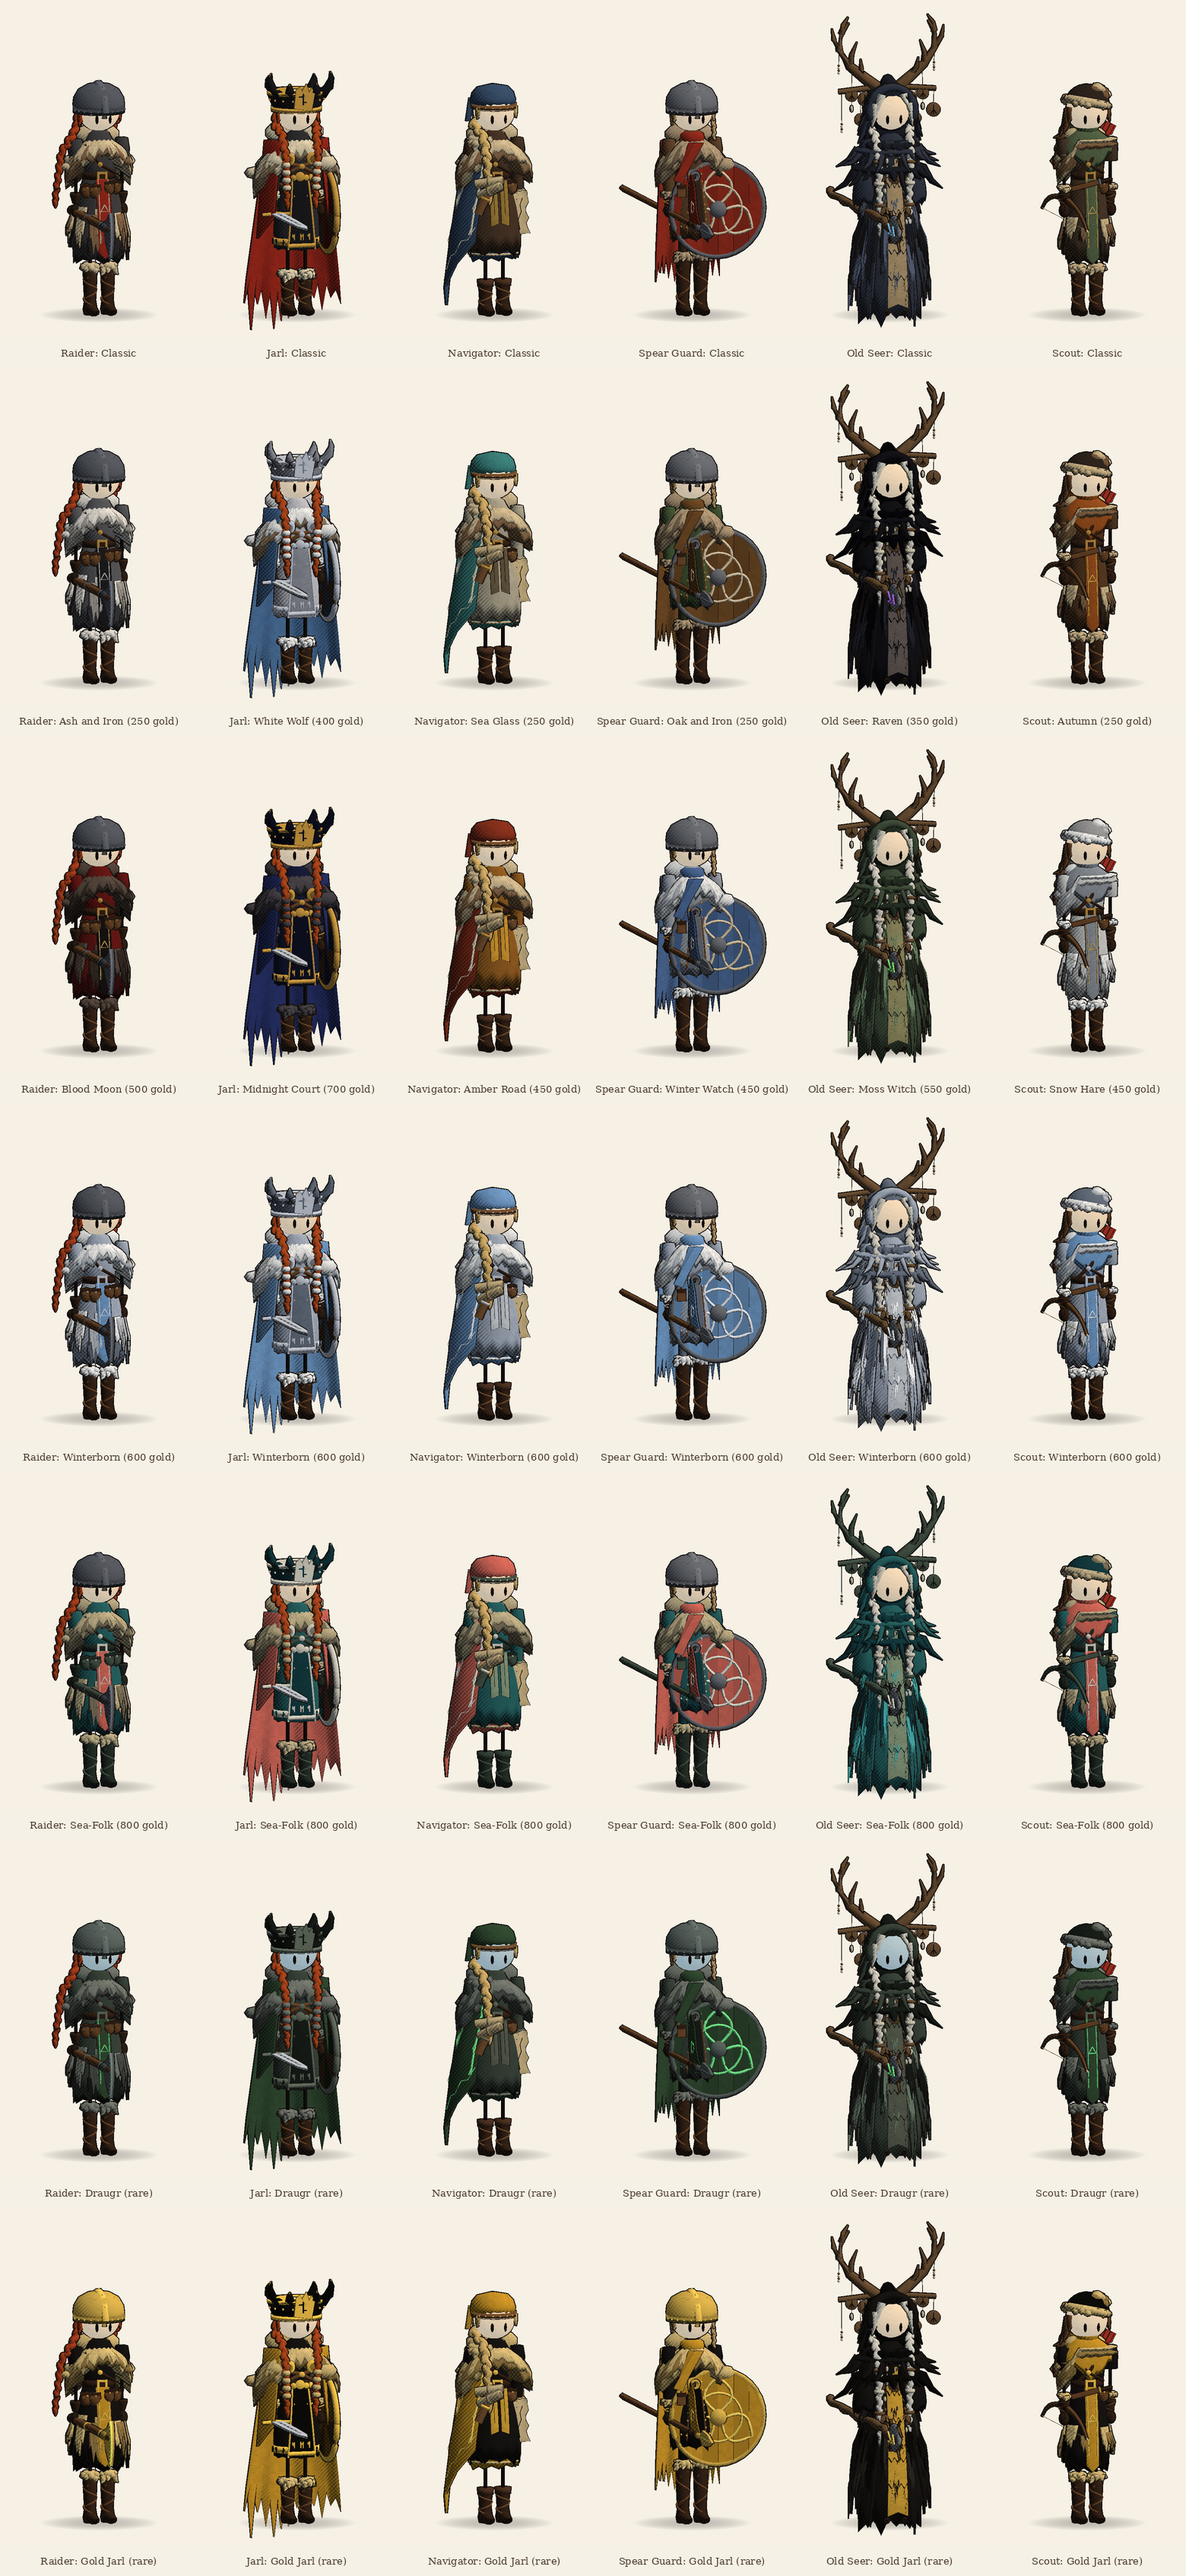
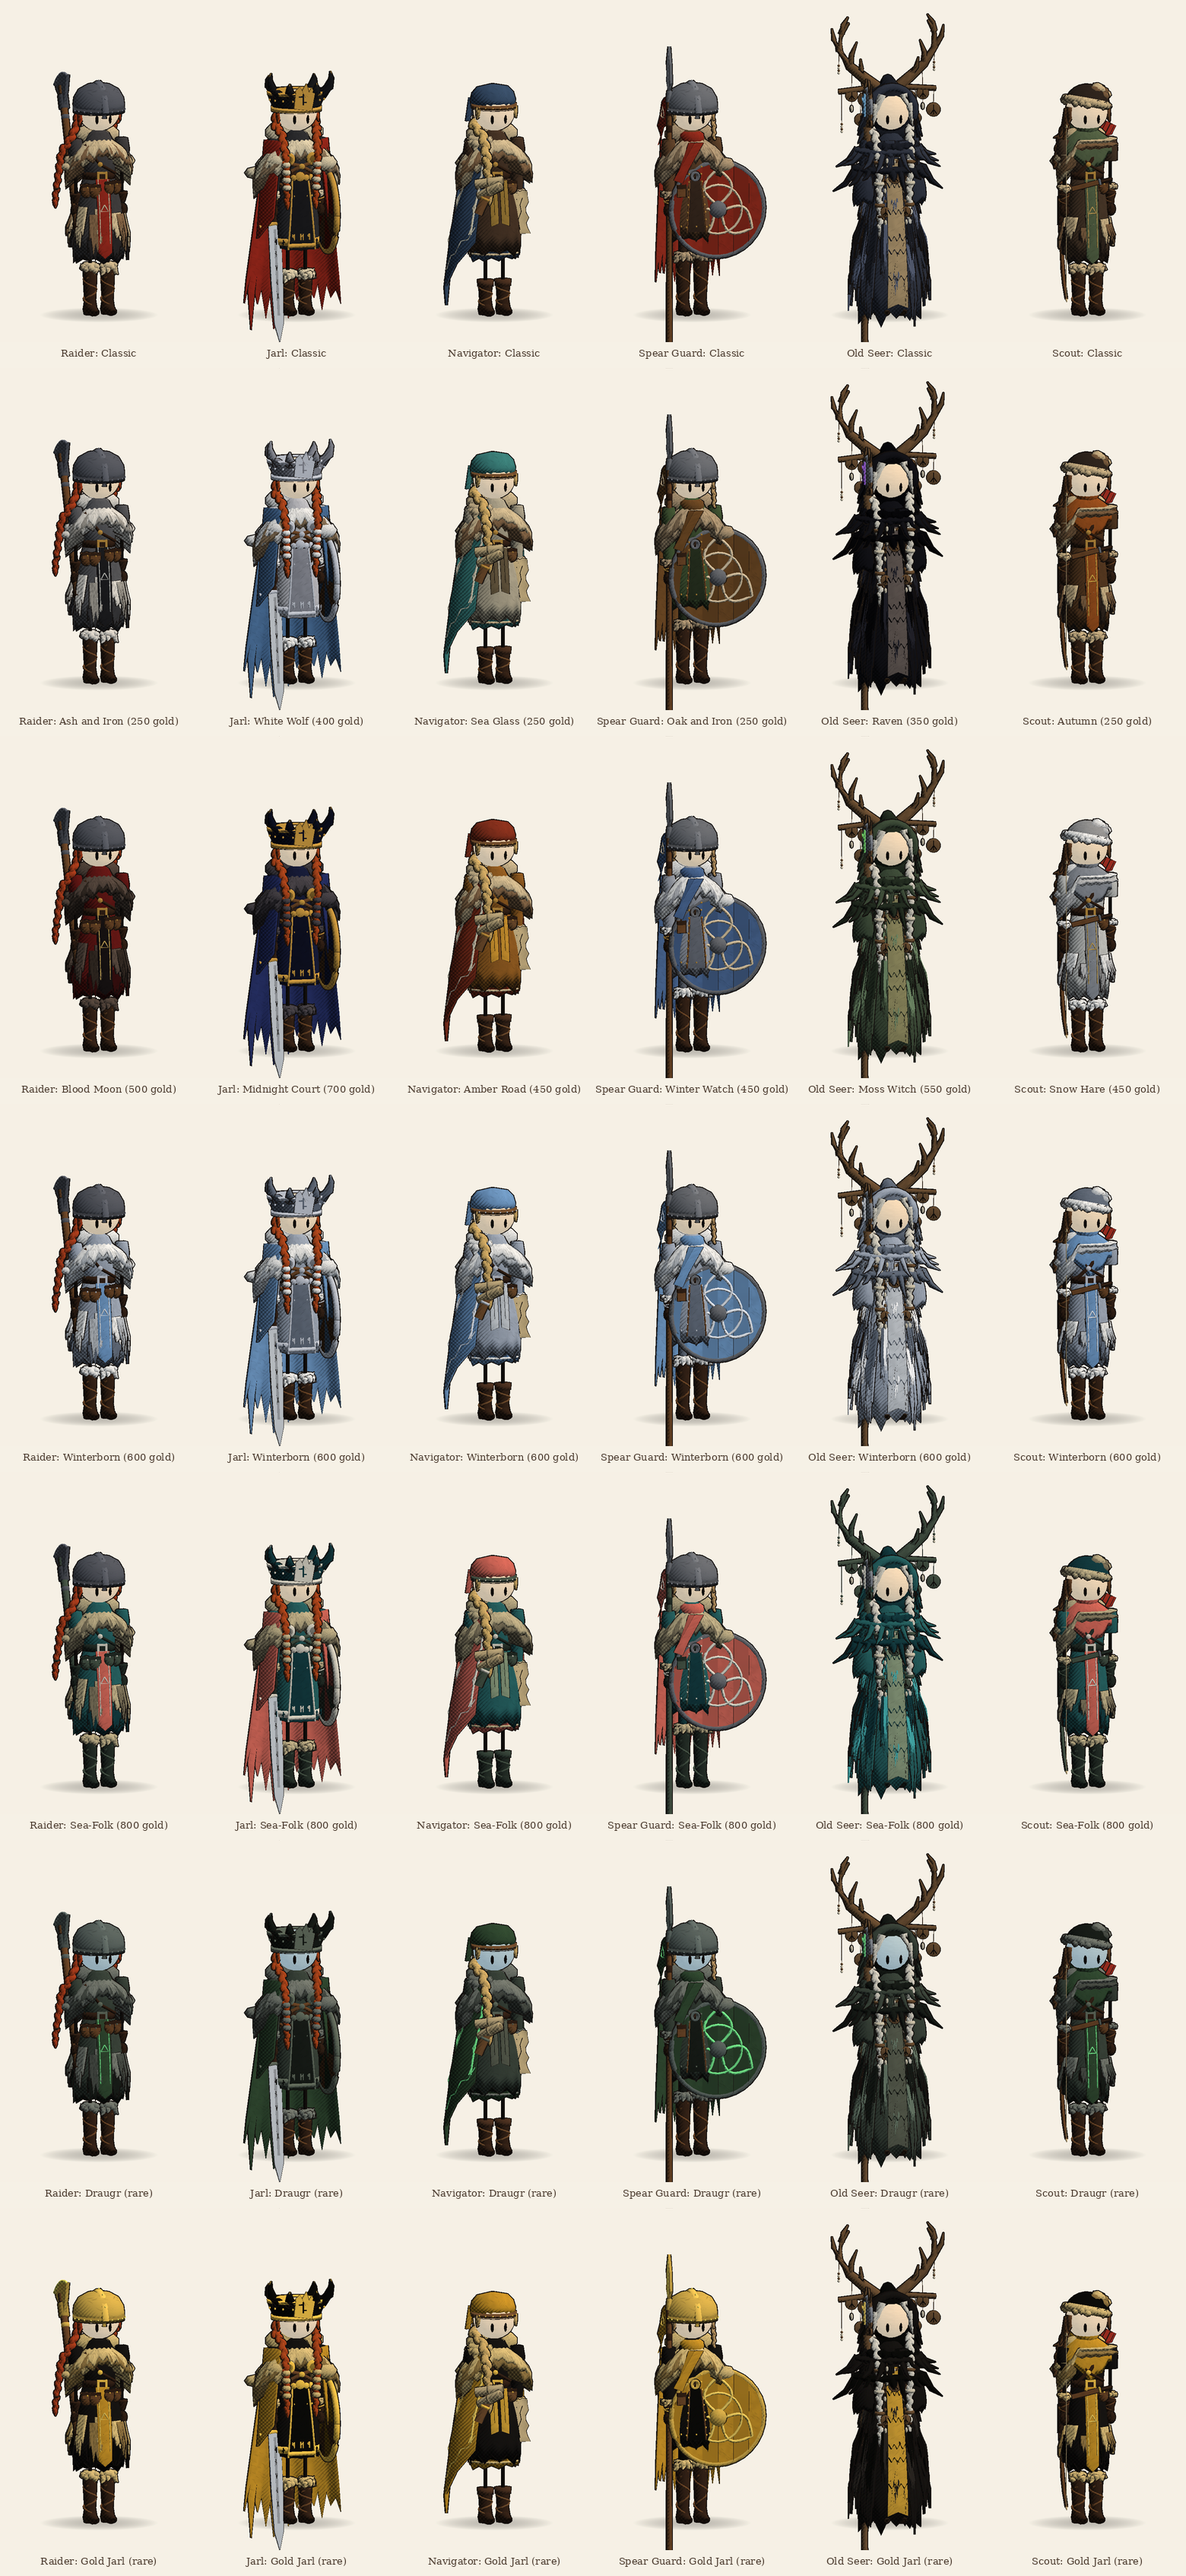
Turnaround sheet; weapons rest upright instead of sticking out like lances
docs/turnaround.png renders every hero from the front, three-quarter, side
and back. It showed that at rest every weapon pointed straight forward from
the fist; joints now carry a rest rotation and each weapon has its own
(Weapons.RestEuler): spears, staves and bows upright, swords point-down,
the axe tipped back. HeroBuilder and the preview apply it; tests check that
nothing is held out like a lance.

Claude-Session: https://claude.ai/code/session_01SCdejJ1UF8RUxAkkFhZXGU

diff --git a/tools/preview/HeroPreview.cs b/tools/preview/HeroPreview.cs
@@ -186,6 +186,7 @@ public static class HeroPreview
         File.WriteAllLines(args[1], labels.ToArray());
         if (args.Length > 4) MotionStrip(args[3], args[4], jarlModel);
         if (args.Length > 6) SkinSheet(args[5], args[6]);
+        if (args.Length > 8) TurnSheet(args[7], args[8]);
         Directory.CreateDirectory(args[2]);
         ExportObj(HeroModel.Build(raider), Path.Combine(args[2], "raider.obj"));
         ExportObj(HeroModel.BuildWeapon(raider), Path.Combine(args[2], "two-hand-axe.obj"));
@@ -243,6 +244,39 @@ public static class HeroPreview
         }
         var labels = new List<string>();
         foreach (var f in frames) labels.Add(f.label);
+        File.WriteAllLines(labelPath, labels.ToArray());
+    }
+
+    /// <summary>Every outfit (rows) from the front, three-quarter, side and back (columns), for docs/turnaround.png.</summary>
+    static void TurnSheet(string rgbaPath, string labelPath)
+    {
+        var outfits = (OutfitId[])Enum.GetValues(typeof(OutfitId));
+        float[] yaws = { 180f, 215f, 270f, 0f };
+        string[] names = { "front", "three-quarter", "side", "back" };
+        const int cellW = 520, cellH = 900;
+        int cols = yaws.Length, rows = outfits.Length, w = cellW * cols, h = cellH * rows;
+        var img = new float[w * h * 3];
+        var labels = new List<string> { "cols=" + cols };
+        for (int r = 0; r < rows; r++)
+        {
+            var row = new float[w * cellH * 3];
+            for (int i = 0; i < w * cellH; i++) { row[i * 3] = Paper.r; row[i * 3 + 1] = Paper.g; row[i * 3 + 2] = Paper.b; }
+            var model = Full(CharacterSpec.Default(outfits[r]));
+            for (int c = 0; c < cols; c++)
+            {
+                Render(row, w, cellH, c * cellW, cellW, cellH, new Shot { model = model, yaw = yaws[c] });
+                labels.Add(Outfits.Get(outfits[r]).title.Replace("The ", "") + ", " + names[c]);
+            }
+            Array.Copy(row, 0, img, r * w * cellH * 3, row.Length);
+        }
+        using (var f = new BinaryWriter(File.Create(rgbaPath)))
+        {
+            f.Write(w); f.Write(h);
+            for (int i = 0; i < w * h; i++)
+            {
+                f.Write((byte)(Mathf.Clamp01(img[i * 3]) * 255)); f.Write((byte)(Mathf.Clamp01(img[i * 3 + 1]) * 255)); f.Write((byte)(Mathf.Clamp01(img[i * 3 + 2]) * 255)); f.Write((byte)255);
+            }
+        }
         File.WriteAllLines(labelPath, labels.ToArray());
     }
 
@@ -313,7 +347,7 @@ public static class HeroPreview
     {
         var j = m.Find(joint);
         Vector3 local = pose.pos.ContainsKey(joint) ? pose.pos[joint] : j.localPosition;
-        Quaternion own = pose.rot.ContainsKey(joint) ? pose.rot[joint] : Quaternion.identity;
+        Quaternion own = pose.rot.ContainsKey(joint) ? pose.rot[joint] : Quaternion.Euler(j.restEuler);
         if (j.parent == null) { pos = local; rot = own; return; }
         Vector3 pp; Quaternion pr;
         World(m, pose, j.parent, out pp, out pr);

diff --git a/OdinsCoin/Assets/Scripts/Characters/HeroModel.cs b/OdinsCoin/Assets/Scripts/Characters/HeroModel.cs
@@ -21,6 +21,8 @@ namespace OdinsCoin
             var outfit = Outfits.Get(spec.outfit);
             var d = new Dresser { model = new VikingModel(), fit = fit, pal = spec.Paint(), seed = 17 + (int)spec.outfit * 31 };
             Joints.Build(d.model, fit);
+            // How the hand holds its weapon at rest (weapons are built pointing forward from the fist).
+            d.model.Find(Joints.Weapon).restEuler = Weapons.RestEuler(spec.weapon);
             BaseBody(d);
             Hair(d, spec.hair);
             outfit.dress(d);
@@ -128,6 +130,23 @@ namespace OdinsCoin
     /// <summary>Weapons are add-ons, not part of the character: built on their own and held in the weapon hand.</summary>
     public static class Weapons
     {
+        /// <summary>
+        /// How each weapon is carried when the arm hangs at rest: long hafts and staves upright, the sword point
+        /// down, the axe tipped back so it leans against the shoulder. (Every weapon is modelled pointing +Z.)
+        /// </summary>
+        public static Vector3 RestEuler(WeaponId id)
+        {
+            switch (id)
+            {
+                case WeaponId.Spear:
+                case WeaponId.Staff:
+                case WeaponId.Bow: return new Vector3(-90f, 0f, 0f);
+                case WeaponId.TwoHandAxe: return new Vector3(-115f, 0f, 0f);
+                case WeaponId.Sword: return new Vector3(80f, 0f, 0f);
+                default: return Vector3.zero;
+            }
+        }
+
         /// <summary>The first <paramref name="count"/> outline points as a 3D polyline in the blade's plane (x offset for the bevel).</summary>
         /// <summary>The axe's cutting edge, t = 0 at the top horn to 1 at the tip of the beard, pushed out by <paramref name="off"/>.</summary>
         static Vector2 Edge(float t, float off)

diff --git a/tools/tests/LogicTests.cs b/tools/tests/LogicTests.cs
@@ -36,6 +36,7 @@ public static class LogicTests
         StickAnimTests();
         ClothWindTests();
         FaceTests();
+        RestTests();
         SkinTests();
         CombatTests();
         Console.WriteLine(passes + " passed, " + failures + " failed");
@@ -816,6 +817,20 @@ public static class LogicTests
         var cape = SwingSpring.For(SwingKind.Cape);
         for (int i = 0; i < 2000; i++) cape.Step(0.016f, new Vector3(3f, 0f, -6f), Vector3.zero, ClothWind.Flutter(10f, i * 0.016f, 0f), ClothWind.Flutter(10f, i * 0.016f, 1.7f));
         Check(cape.pitch >= cape.minPitch - 0.01f && cape.pitch <= cape.maxPitch + 0.01f && Math.Abs(cape.roll) <= cape.maxRoll + 0.01f, "flutter stays within the cape's limits");
+    }
+
+    static void RestTests()
+    {
+        foreach (WeaponId w in Enum.GetValues(typeof(WeaponId)))
+        {
+            var spec = CharacterSpec.Default(OutfitId.Raider); spec.weapon = w;
+            var m = HeroModel.Build(spec);
+            Vector3 tip = Quaternion.Euler(m.Find(Joints.Weapon).restEuler) * Vector3.forward;
+            // Nothing sticks straight out in front of the hero at rest.
+            Check(w == WeaponId.None || Math.Abs(tip.z) < 0.6f, w + " isn't held out like a lance at rest (" + tip + ")");
+        }
+        Check((Quaternion.Euler(Weapons.RestEuler(WeaponId.Spear)) * Vector3.forward).y > 0.95f, "a spear rests upright");
+        Check((Quaternion.Euler(Weapons.RestEuler(WeaponId.Sword)) * Vector3.forward).y < -0.9f, "a sword rests point-down");
     }
 
     static void FaceTests()

diff --git a/OdinsCoin/Assets/Scripts/Player/VikingModel.cs b/OdinsCoin/Assets/Scripts/Player/VikingModel.cs
@@ -338,6 +338,8 @@ namespace OdinsCoin
             public Vector3 localPosition;
             /// <summary>Built but switched off at the start (alternative faces, for example).</summary>
             public bool hidden;
+            /// <summary>How the joint is turned at rest, in degrees (a spear held upright, a sword pointing down).</summary>
+            public Vector3 restEuler;
         }
 
         /// <summary>Whether a joint, or any joint it hangs from, starts switched off.</summary>

diff --git a/OdinsCoin/Assets/Scripts/Characters/HeroBuilder.cs b/OdinsCoin/Assets/Scripts/Characters/HeroBuilder.cs
@@ -22,6 +22,7 @@ namespace OdinsCoin
                 var t = new GameObject(j.name).transform;
                 t.SetParent(j.parent == null ? root : joints[j.parent], false);
                 t.localPosition = j.localPosition;
+                t.localRotation = Quaternion.Euler(j.restEuler);
                 joints[j.name] = t;
             }
             AddPieces(model, joints);

diff --git a/OdinsCoin/CHARACTERS.md b/OdinsCoin/CHARACTERS.md
@@ -64,7 +64,8 @@ Alt bygges i kode (ingen modellfiler trengs). `tools/preview/render.sh` tegner e
     - **Seer:** hvitt hår rammer inn ansiktet i hetta, og smykkene er større.
   - Til runde 7:
     - Seeren og Spydvakten trenger flere runeskiver og kjeder over hele kroppen.
-    - Sjekk hver figur i tre fjerdedels vinkel, ikke bare forfra.
+    - [x] Sjekk hver figur fra flere vinkler: `docs/turnaround.png` viser alle forfra, på skrå, fra siden og bakfra. Den avslørte at våpnene stakk rett fram i hvilestilling. Nå har hvert våpen sin egen hvilevinkel (`Weapons.RestEuler`).
+    - Øksa bør hvile på skulderen, og det trenger en egen armstilling i spillet.
 - [x] **9. Bevegelse i plaggene:** (se [docs/motion.png](docs/motion.png)) kapper, skjørt, fletter, pels og vimpler svinger og henger etter når figuren går, snur og hugger (enkel fysikk med fjærer).
 - [ ] **10. Tegneserie-look på alt:** tusj-kanter på skipet, øyene, trærne, husene og havet, skravur med blyant eller tusj i skyggene, og papirkorn over hele bildet.
   - [x] Skravur i skyggene: shaderen `OdinsCoin/InkToon` (i `Resources/Shaders`) gir myk tegnet belysning med kalde skygger, enkle blyantstreker på skyggesiden og kryss-skravur i de mørkeste delene. Ansiktene får ingen skravur, så de holder seg rene. Den brukes på alt som ikke er blankt (havet beholder Lit). `InkStyle.cs` har samme matte, og forhåndsvisningen bruker den.
